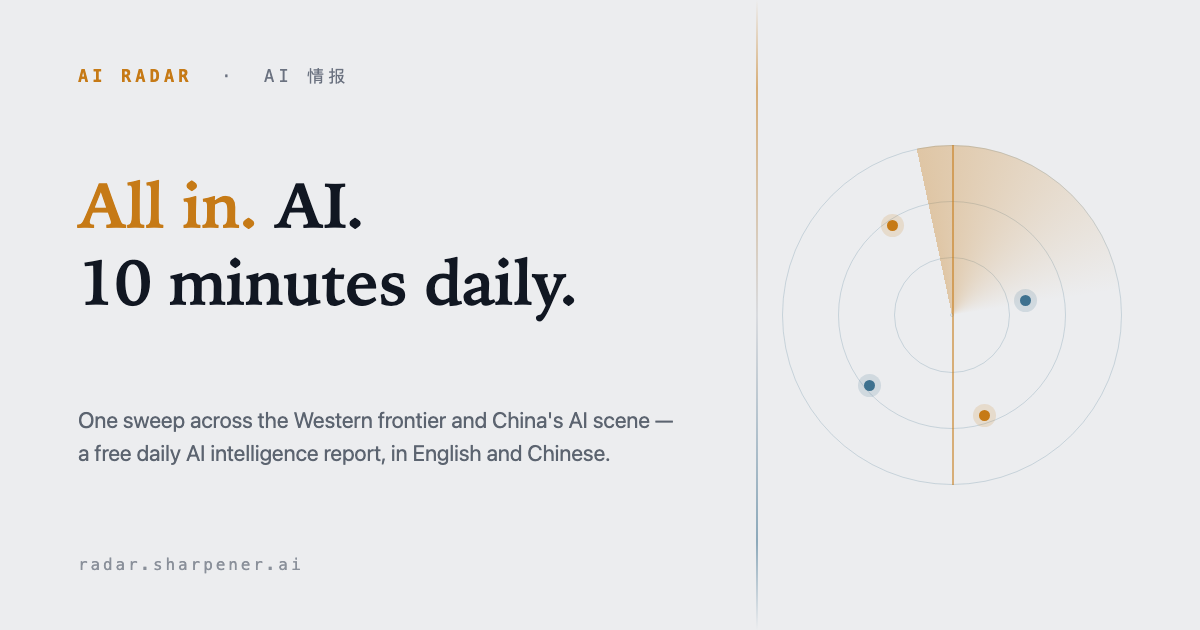
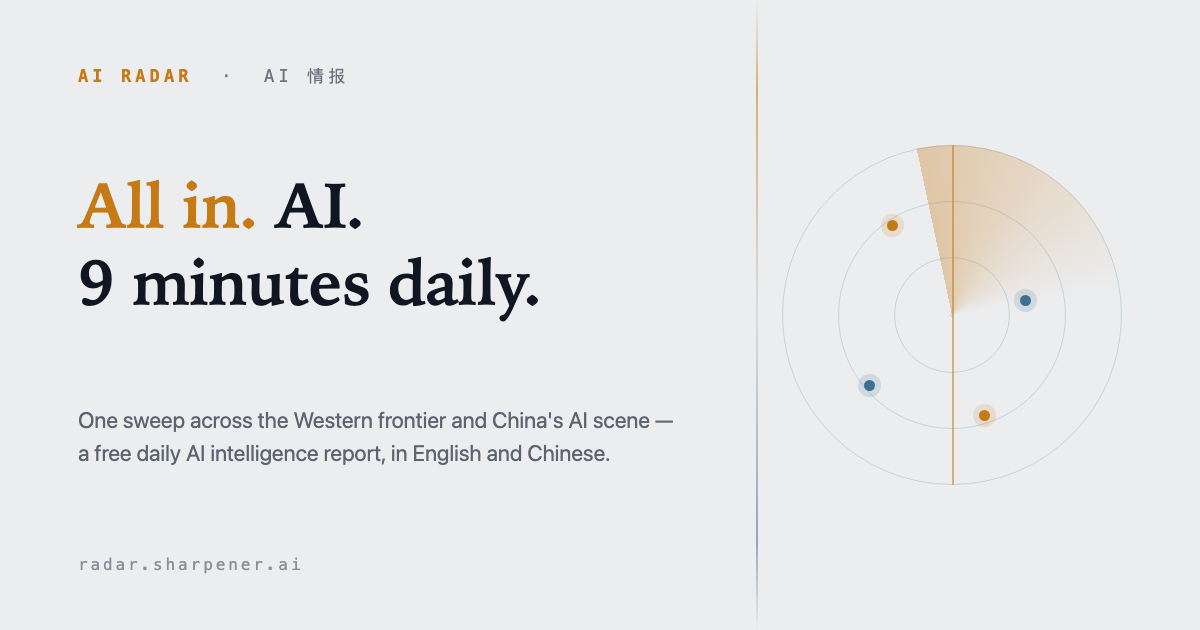
hero: 10 minutes → 9 minutes(用户定,单位数省宽度)
中英 H1 + head 4 处元数据 + og 分享图同步。

Changed region(s): [[0.0617, 0.3921, 0.4933, 0.5127]]

diff --git a/index.html b/index.html
@@ -6,7 +6,7 @@
      client-side, but no crawler or link unfurler (X, LinkedIn, Slack, WeChat) runs
      that JS — they read exactly what is served here, so it has to be one language.
      Per-report pages DO know their language and set these per-edition. -->
-<meta name="description" content="A daily AI intelligence radar — one sweep across the Western frontier (X · Hacker News · labs) and China's AI scene (labs · social · solo builders), compressed into a 10-minute report. Free full editions in English and Chinese.">
+<meta name="description" content="A daily AI intelligence radar — one sweep across the Western frontier (X · Hacker News · labs) and China's AI scene (labs · social · solo builders), compressed into a 9-minute report. Free full editions in English and Chinese.">
 <link rel="canonical" href="https://radar.sharpener.ai/">
 <link rel="icon" href="/favicon.svg" type="image/svg+xml">
 <link rel="icon" href="/favicon.ico" sizes="32x32">
@@ -16,20 +16,20 @@
 <meta property="og:type" content="website">
 <meta property="og:site_name" content="AI Radar">
 <meta property="og:title" content="AI Radar — Daily AI Intelligence, West and East">
-<meta property="og:description" content="A daily AI intelligence radar — one sweep across the Western frontier (X · Hacker News · labs) and China's AI scene (labs · social · solo builders), compressed into a 10-minute report. Free full editions in English and Chinese.">
+<meta property="og:description" content="A daily AI intelligence radar — one sweep across the Western frontier (X · Hacker News · labs) and China's AI scene (labs · social · solo builders), compressed into a 9-minute report. Free full editions in English and Chinese.">
 <meta property="og:url" content="https://radar.sharpener.ai/">
 <meta property="og:image" content="https://radar.sharpener.ai/assets/og.png">
 <meta property="og:locale" content="en_US">
 <meta property="og:locale:alternate" content="zh_CN">
 <meta name="twitter:card" content="summary_large_image">
 <meta name="twitter:title" content="AI Radar — Daily AI Intelligence, West and East">
-<meta name="twitter:description" content="A daily AI intelligence radar — one sweep across the Western frontier (X · Hacker News · labs) and China's AI scene (labs · social · solo builders), compressed into a 10-minute report. Free full editions in English and Chinese.">
+<meta name="twitter:description" content="A daily AI intelligence radar — one sweep across the Western frontier (X · Hacker News · labs) and China's AI scene (labs · social · solo builders), compressed into a 9-minute report. Free full editions in English and Chinese.">
 <meta name="twitter:image" content="https://radar.sharpener.ai/assets/og.png">
 <!-- Structured data: states publisher, author, language and cadence as facts rather
      than leaving a crawler (search or LLM) to infer them from the layout. -->
 <script type="application/ld+json">
 {"@context":"https://schema.org","@graph":[
-{"@type":"WebSite","@id":"https://radar.sharpener.ai/#website","url":"https://radar.sharpener.ai/","name":"AI Radar","alternateName":"AI情报","inLanguage":["en","zh-CN"],"description":"A daily AI intelligence radar — one sweep across the Western frontier (X · Hacker News · labs) and China's AI scene (labs · social · solo builders), compressed into a 10-minute report. Free full editions in English and Chinese.","publisher":{"@id":"https://radar.sharpener.ai/#person"}},
+{"@type":"WebSite","@id":"https://radar.sharpener.ai/#website","url":"https://radar.sharpener.ai/","name":"AI Radar","alternateName":"AI情报","inLanguage":["en","zh-CN"],"description":"A daily AI intelligence radar — one sweep across the Western frontier (X · Hacker News · labs) and China's AI scene (labs · social · solo builders), compressed into a 9-minute report. Free full editions in English and Chinese.","publisher":{"@id":"https://radar.sharpener.ai/#person"}},
 {"@type":"Person","@id":"https://radar.sharpener.ai/#person","name":"mingming","url":"https://radar.sharpener.ai/","sameAs":["https://x.com/linktoming","https://www.linkedin.com/in/mingmingwang001"]},
 {"@type":"Blog","@id":"https://radar.sharpener.ai/#blog","url":"https://radar.sharpener.ai/","name":"AI Radar","description":"Daily AI intelligence across two hemispheres.","inLanguage":["en","zh-CN"],"author":{"@id":"https://radar.sharpener.ai/#person"},"isAccessibleForFree":true,"about":[{"@type":"Thing","name":"Artificial intelligence"},{"@type":"Thing","name":"AI agents"},{"@type":"Thing","name":"Large language models"},{"@type":"Thing","name":"AI industry news"}]}
 ]}
@@ -264,7 +264,7 @@ html.js .reveal.in{opacity:1;transform:none}
     <div>
       <div class="eyebrow reveal" data-i18n="hero.eyebrow">每日 · AI 情报 · 横跨东西</div>
       <h1 class="reveal">
-        <span data-i18n="hero.h1a">每天 10 分钟,<br>AI 圈</span><span class="east" data-i18n="hero.h1east">一网打尽</span><span data-i18n="hero.h1b"></span>
+        <span data-i18n="hero.h1a">每天 9 分钟,<br>AI 圈</span><span class="east" data-i18n="hero.h1east">一网打尽</span><span data-i18n="hero.h1b"></span>
       </h1>
       <p class="sub reveal" data-i18n="hero.sub">我给自己造了一台每天自动跑的 AI 情报雷达:一次扫描横跨西方源头(X · HN · 实验室)和中文AI圈(实验室 · 社媒 · 一人公司),压缩成一份每日报告。</p>
       <div class="cta-row reveal">
@@ -387,7 +387,7 @@ const I18N={
  en:{
   "hero.eyebrow":"Daily · AI Intelligence · East meets West",
   "today.loading":"Loading the latest edition…","today.readfull":"Read the full four-layer report →",
-  "hero.h1a":"",  "hero.h1east":"All in.",  "hero.h1b":" AI.<br>10 minutes daily.",
+  "hero.h1a":"",  "hero.h1east":"All in.",  "hero.h1b":" AI.<br>9 minutes daily.",
   "hero.sub":"I built myself an AI radar that runs every day — one sweep across the Western frontier (X · HN · labs) and China's AI scene (labs · social · solo builders), compressed into one daily report.",
   "hero.cta1":"Subscribe to AI radar","hero.cta2":"Today's report","hero.radarcap":"Sweep · 116°E / 122°W",
   "why.h2":"Everyone else scans half the sky",
